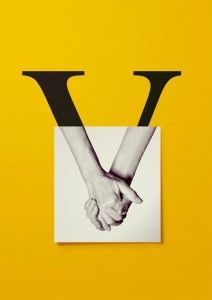
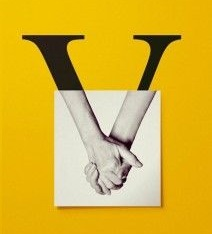
Efectos a Nombre y Apellido

Changed region(s): [[0.0849, 0.1197, 0.8774, 0.8974], [0.5377, 0.4786, 0.566, 0.5385]]

diff --git a/src/components/LastName.js b/src/components/LastName.js
@@ -1,7 +1,8 @@
 import React from 'react';
 import '../allcss/LastName.css';
 import lax from 'lax.js';
-import ReactDOM from 'react-dom';
+import ReactDOM from 'react-dom'
+import vPhoto from '../images/Bien/v.jpg';;
 class LastName extends React.Component {
     constructor(props) {
         super(props)
@@ -22,11 +23,11 @@ class LastName extends React.Component {
         lax.removeElement(this.el)
       }
     render() {
+        //data-lax-translate-x="vh 0, -elh (vw*1)" data-lax-anchor="self" style={{"backface-visibility": "hidden"}, {"transform": "translateX(351.698)"}}
         return (
-            <div className='lastName'>
-               
-               
-                <p className='realLastName'>Vielmas</p>  
+            <div className='lastName'  data-lax-translate-x="0 0, vh -vw">
+                <img className='vPhoto' src={vPhoto}/> 
+                <p className='realLastName'>ielmas</p>  
             </div>
        );
     }

diff --git a/src/components/Name.js b/src/components/Name.js
@@ -24,9 +24,9 @@ class Name extends React.Component {
     // React components are simple functions that take in props and state, and render HTML
     render() {
         return (
-            <div className='homeName'>
-                <p className='realName'>Brenda</p>
-                
+            <div className='homeName'  data-lax-translate-y="0 0, vh -vw">
+                <p className='realName' >Brenda</p>
+               
             </div>
        );
     }

diff --git a/src/components/App.js b/src/components/App.js
@@ -13,7 +13,7 @@ import Skills from './Skills';
 class App extends React.Component {
   render(){
     return (
-      <div>
+      <div style={{"overflow": "hidden"}}>
         <Menu/>
         <Name/>
         <LastName/>

diff --git a/src/allcss/LastName.css b/src/allcss/LastName.css
@@ -8,6 +8,11 @@
   }
 
   .realLastName{
+    display: inline-block;
     margin-top: 1%;
     margin-bottom: 10%;
+  }
+  .vPhoto{
+    width: 15rem;
+    height: 15rem;
   }
